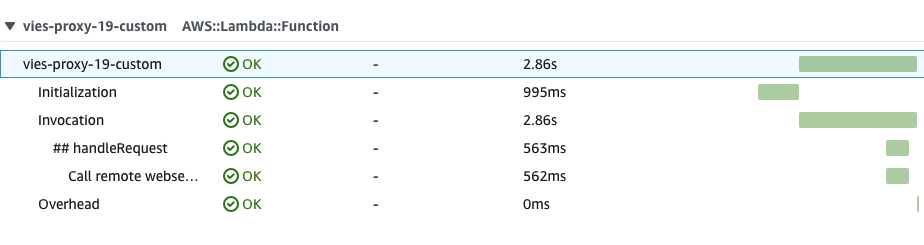
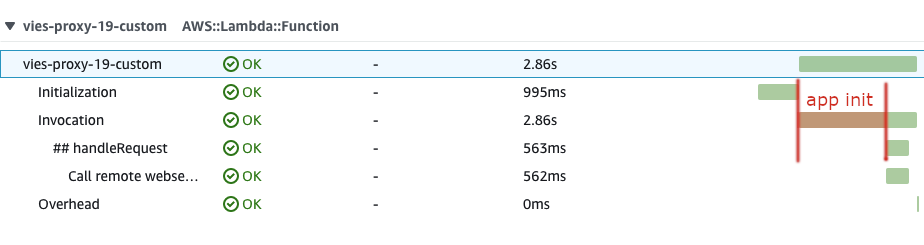
update images, clarify app initialization

Changed region(s): [[0.8485, 0.3143, 0.9697, 0.6571]]

diff --git a/layouts/_default/_markup/render-image.html b/layouts/_default/_markup/render-image.html
@@ -1,0 +1,1 @@
+<img class="img-fluid" src="{{ .Destination | safeURL }}" alt="{{ .Text }}" {{ with .Title}} title="{{ . }}"{{ end }} />

diff --git a/content/blogs/2022-12-05-cold-start-java.md b/content/blogs/2022-12-05-cold-start-java.md
@@ -9,11 +9,11 @@ tags:
 - AWS Lambda
 - Cold start
 image: /images/cold_start/taylor-vick-M5tzZtFCOfs-unsplash.jpg
-description: ""
+description: "How to tackle cold start for your Java Serverless Function if your code is not compatible with AOT native-image"
 toc:
 ---
 <div class="text-center mb-3">
-    <small>Photo by <a href="https://unsplash.com/@tvick?utm_source=unsplash&utm_medium=referral&utm_content=creditCopyText">Taylor Vick</a> on <a href="https://unsplash.com/s/photos/network?utm_source=unsplash&utm_medium=referral&utm_content=creditCopyText">Unsplash</a></small>
+    <small>Photo by <a href="https://unsplash.com/@tvick?utm_source=unsplash&utm_medium=referral&utm_content=creditCopyText" rel="noopener" target="_blank">Taylor Vick</a> on <a href="https://unsplash.com/s/photos/network?utm_source=unsplash&utm_medium=referral&utm_content=creditCopyText">Unsplash</a></small>
 </div>
 
 ## Introduction
@@ -165,12 +165,12 @@ Recently the JVM dev team put a lot of effort into reducing startup time of Java
 AWS Lambda supports running custom Docker images, so let's go ahead and try to build a custom image.
 You can find the full Dockerfile [here](https://github.com/claranet-ch/java-lambda-optimization/blob/main/docker/jdk19/Dockerfile).
 
-### Multi-stage is better
+### 1. Multi-stage is better
 
 We'll build a [multi-stage](https://docs.docker.com/build/building/multi-stage/) Dockerfile.
 The resulting image will have fewer layers and therefore will be more compact in size, resulting in a reduced cold start.
 
-### 1. Build a smaller JRE
+### 2. Build a smaller JRE
 
 JDK9 introduced `jlink`, a tool that allows us to build a smaller version of the JRE. We can include only the modules we need:
 
@@ -192,7 +192,7 @@ RUN jlink --verbose \
     --add-modules $(cat /tmp/jre-deps.info)
 ```
 
-### 2. Use (App) Class-Data Sharing
+### 3. Use (App) Class-Data Sharing
 
 #### Class-Data sharing (CDS)
 
@@ -217,7 +217,7 @@ RUN export AWS_LAMBDA_RUNTIME_API="localhost:8080" &&\
 
 the process will exit with an error (ignored by the command), but the important thing for us is to process as many classes as we can.
 
-### 3. Results
+### 4. Results
 
 Let's run the `vies-proxy-19` function with the same payload as before
 
@@ -265,32 +265,34 @@ Way better, but maybe we can try a new approach to reduce startup times even mor
 
 Very recently, AWS [announced SnapStart](https://aws.amazon.com/blogs/aws/new-accelerate-your-lambda-functions-with-lambda-snapstart/) at re:Invent.
 
-SnapStart performs a _snapshot_ of the micro-container running the lambda function and then restores it. 
+SnapStart is a new deployment process that starts up the micro-container running the function, waits for its initialization, and then performs a _snapshot_ of its state. When the lambda function is invoked, SnapStart will restore the already initialized snapshot instead of initializing the JVM again. 
 
 > SnapStart is only available for *x86_64* CPU architecture and might not be compatible with your code. Please check https://docs.aws.amazon.com/lambda/latest/dg/snapstart.html for additional information
 
 ### 1. Application initialization
 
-Now we can perform a snapshot of the running JVM. So we can also get rid of the application initialization time, right?
+Since we have the opportunity to _start_ our lambda before taking the snapshot, we can manage to fully initialize the SOAP client before the snapshot is taken, in order to reduce the _application initialization_ time.
 
+What is this _application initialization time_?
 Let's take a closer look at the tracing for the latest invocation of `vies-proxy-19-custom`:
 
 ![SOAP client initialization cost](/images/cold_start/005_initialization-cost.png)
 
-as you can see the Application initialization takes more than `2s` (2.86 - 0.563). This might have something to do with the SOAP client initialization and the proxies it generates to generate the request and parse the response.
+_Application initialization_ is everything happening between "Initialization" (cold start) and "## handleRequest". That's more than `2s` (2.86 - 0.563) in the screenshot!
+For example, this might be related with the SOAP client initialization and all the dynamic proxies it generates to perform the request and parse the response.
 
 Let's modify the code to try to include these objects in the snapshot as well.
 
 ### 2. Lifecycle hooks
 
-SnapStart supports [CRaC](https://docs.aws.amazon.com/lambda/latest/dg/snapstart-runtime-hooks.html) checkpoint API, so let's modify the Lambda Handler accordingly:
+SnapStart supports [CRaC](https://docs.aws.amazon.com/lambda/latest/dg/snapstart-runtime-hooks.html) checkpoint API, so we can modify the Lambda Handler to simulate a request before the snapshot happens:
 
 ```java
 // [...]
 import org.crac.Core;
 import org.crac.Resource;
 // [...]
-public class Handler implements RequestHandler<ValidationRequest, ValidationResponse>, Resource {
+public class Handler implements RequestHandler<ValidationRequest, ValidationResponse>, Resource { // <-- implements org.crac.Resource
 
     public Handler() {
         Core.getGlobalContext().register(this); // <-- register snapshot listener
@@ -326,21 +328,21 @@ After enabling SnapStart and publishing a new version, let's run our usual test:
 
 Sub-second response time! Outstanding! :tada:
 
-For reference, not optimized code (i.e. without snapshot listener) results in:
+For reference, not optimized code (i.e. without snapshot listener) results in a faster restore time but slower response time overall:
 - Restore duration : `331ms`
 - Duration: `614ms`
  
 While increasing allocated RAM to `2048MB` results in:
-- Restore duration : `275ms`
+- Restore duration : `275ms` (most likely due to the increased I/O and CPU resources)
 - Duration: `238ms`
 
 
 ## Comparing results
 
-I have run a benchmark using [AWS Lambda Power Tuning](https://github.com/alexcasalboni/aws-lambda-power-tuning/pull/177)
-and then collected the resulting times using [Logs Insights](https://docs.aws.amazon.com/AmazonCloudWatch/latest/logs/AnalyzingLogData.html).
+I have run a benchmark using a new feature of [AWS Lambda Power Tuning](https://github.com/alexcasalboni/aws-lambda-power-tuning/pull/177) which hasn't been released yet, 
+and then collected the resulting times using [Logs Insights](https://docs.aws.amazon.com/AmazonCloudWatch/latest/logs/AnalyzingLogData.html). Will do an additional blog post to explain this process soon. Stay tuned :sweat_smile:
 
-Here's the resulting times:
+Here are the resulting times:
 
 <div class="mb-5">
     <a href="/images/cold_start/results.png" title="Open in a new Tab" target="_blank">
